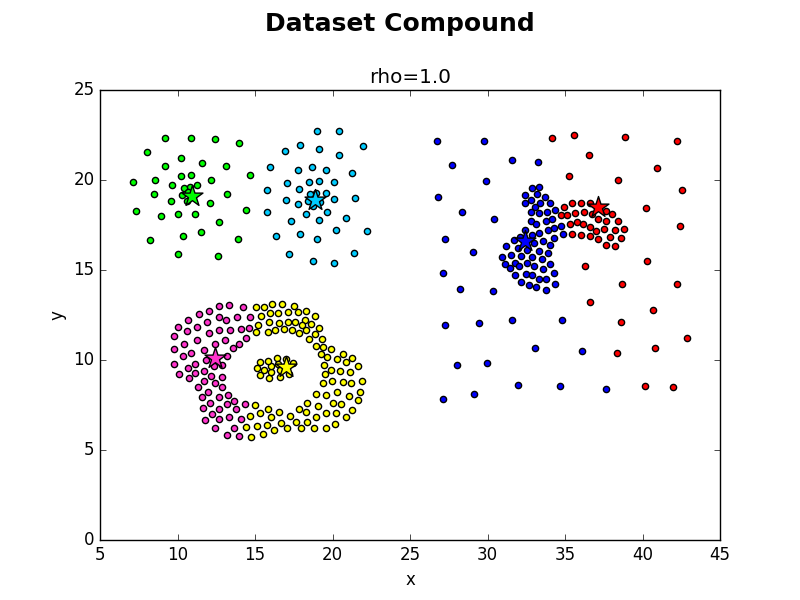
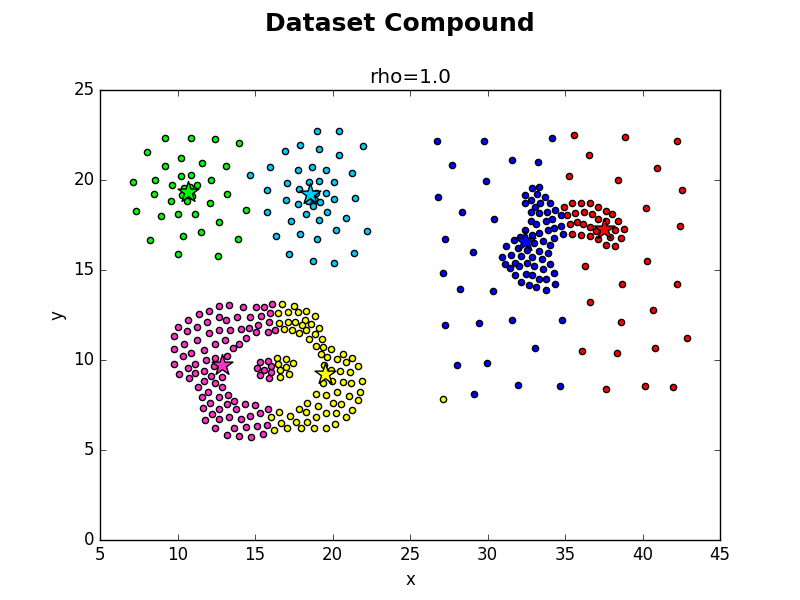
Compound

diff --git a/src/main_compound.py b/src/main_compound.py
@@ -26,8 +26,8 @@ for f, K in a:
     base_name = os.path.basename(fi)
     name = os.path.splitext(base_name)[0]
 
-    # for rho in np.arange(1.0, 3.4, 0.2):
-    for rho in [30.0]:
+    for rho in np.arange(1.0, 3.4, 0.2):
+    #for rho in [30.0]:
         dissimilarity = DensityDistance(rho=rho)
 
         cluster = Cluster(database, dissimilarity, P_size=150, K=K, max_iterations=50)
